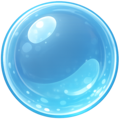
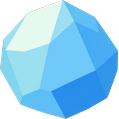
art: redraw heal_effect, Burn/Burn2, Overcharge/Overcharge2, Bubble to master style
Continues #682 after the codex image_gen account quota reset. heal_effect
uses a corrected prompt (flat frontal cross, three hard-edged value bands,
no bevel/chamfer/depth) after the first attempt read as an extruded 3D
block. Burn/Burn2 and Overcharge/Overcharge2 are shipped as pairs only
after overlaying both frames confirmed matching alpha content bounding
boxes (Burn: exact match; Overcharge: sub-1% tip-flicker drift only).

Shock/Shock2 are held back: three consecutive frame-2 attempts all drift
the composition ~25px left/down from frame 1's placement even with an
explicit anchor-lock and quantified margin instructions in the prompt.
Original two files are untouched pending a fresh frame-1 pass.

diff --git a/.art/PRODUCTION-STATUS.md b/.art/PRODUCTION-STATUS.md
@@ -73,6 +73,10 @@
 | `BombSprite.png`, `BombSpriteBomb.png` | 클라이언트 PR (이슈 #679) | 222x256 / 231x256 RGBA. 채색 그림체에서 master-v2 로 재작업. 도화선 불꽃을 양쪽 다 금색으로 맞췄다 |
 | `explode.png` | 클라이언트 PR (이슈 #682) | 841x769 RGBA. 마법 폭발/실패 표시. 남색-보라 결정 파편 다발, 가운데 비움, 원본의 분홍·보라 정체성은 파편 두 개에 악센트로 남김. green 키 제거, 네 모서리 alpha 0 |
 | `hit_effect.png` | 클라이언트 PR (이슈 #682) | 771x700 RGBA. 피격 표시, 8방향 쐐기 방사형 파편, 가운데 비움. magenta 키 제거, 네 모서리 alpha 0 |
+| `heal_effect.png` | 클라이언트 PR (이슈 #682) | 826x818 RGBA. 치유 표시, 다면체 십자가. 대각선 세 면(하이라이트·베이스·그림자)으로만 분할, 두께·챔퍼 없음 — 1차 시도는 입체 블록으로 읽혀 revert 후 재시도. magenta 키 제거, 네 모서리 alpha 0 |
+| `Burn.png`, `Burn2.png` | 클라이언트 PR (이슈 #682) | 238x256 RGBA 두 장. 화상 상태 표시, 불꽃 여섯 덩이. 두 프레임 alpha content bbox 완전 일치(겹쳐서 확인). magenta 키 제거, 네 모서리 alpha 0 |
+| `Overcharge.png`, `Overcharge2.png` | 클라이언트 PR (이슈 #682) | 512x512 RGBA 두 장. 전기 과충전 표시, 번개 조각 여섯 개. 두 프레임 겹침 확인, 끝부분 미세한 흔들림만 차이. magenta 키 제거, 네 모서리 alpha 0 |
+| `Bubble.png` | 클라이언트 PR (이슈 #682) | 119x119 RGBA. 물방울 표시, 저폴리 보석형 단일 도형. magenta 키 제거, 네 모서리 alpha 0 |
 
 ## 다음 교체 후보
 
